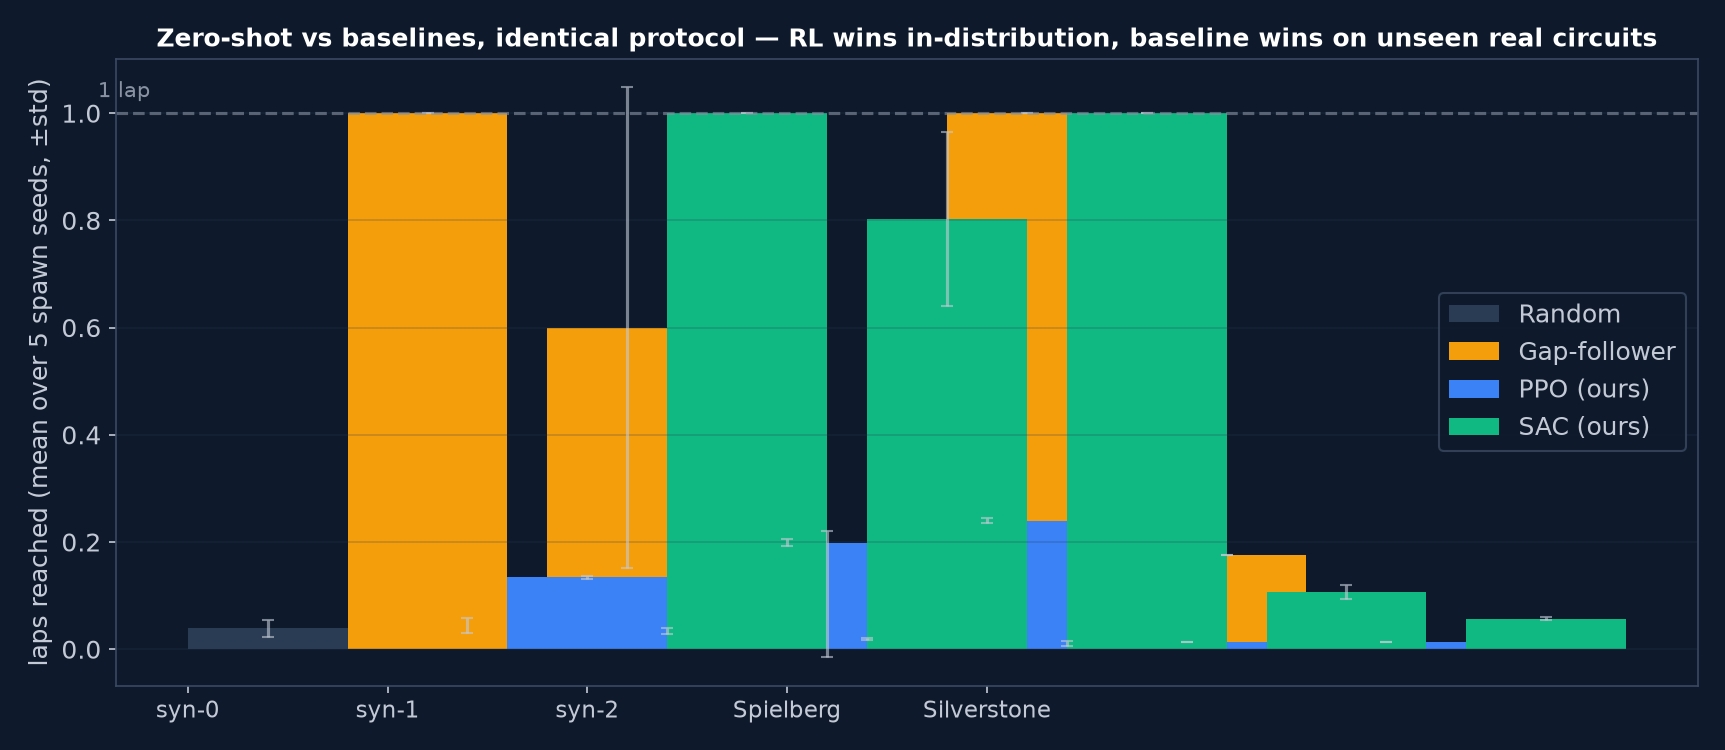
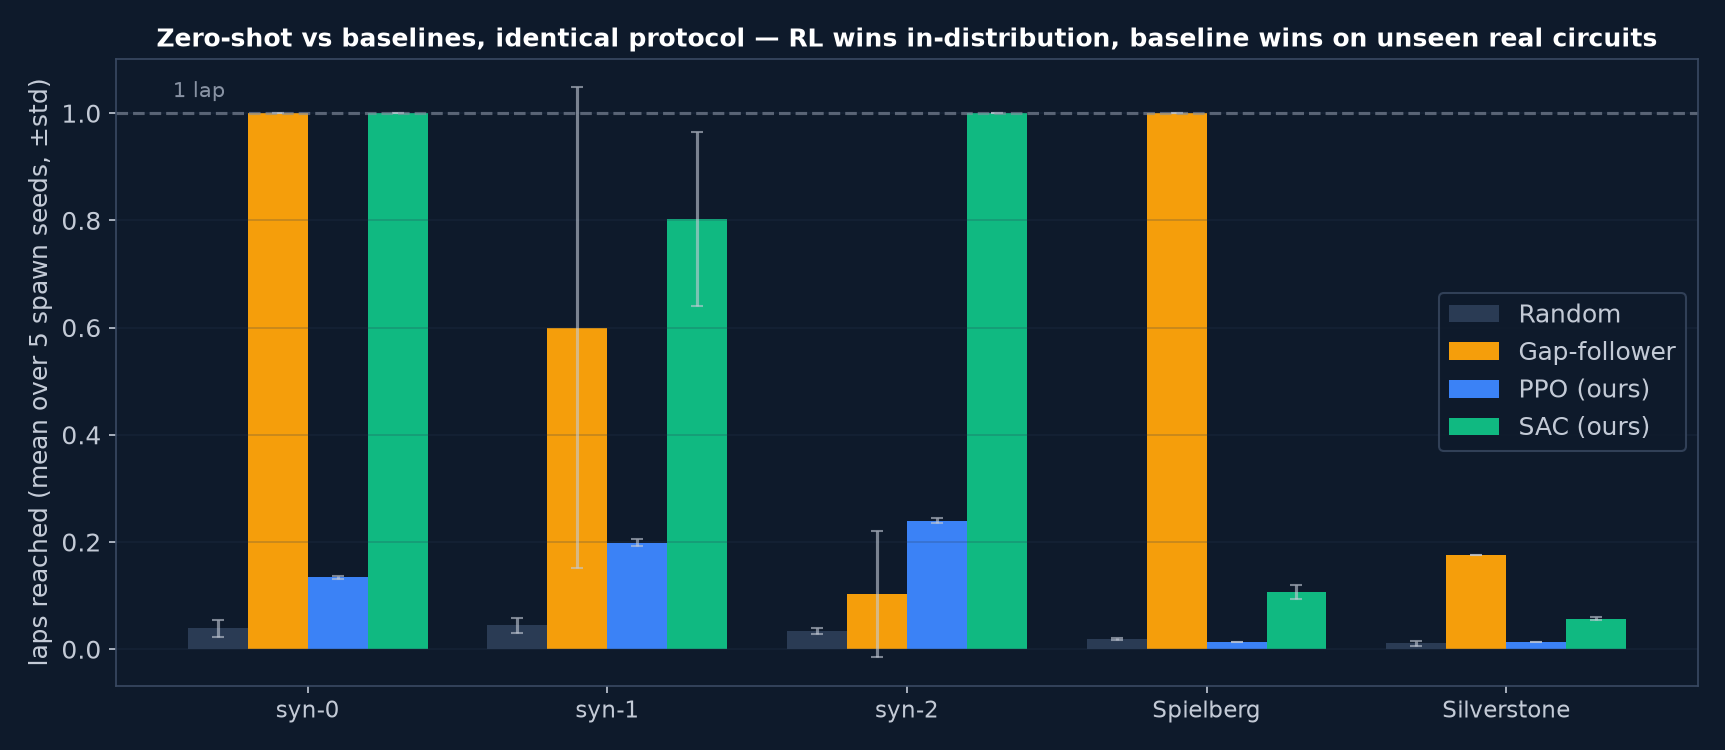
fix zero-shot chart: grouped-bar width/offset bug (bars were overlapping across track slots)

diff --git a/feasibility_spike/reward_experiment/gen_gap_figure.py b/feasibility_spike/reward_experiment/gen_gap_figure.py
@@ -40,7 +40,7 @@ tracks = sorted(tracks, key=lambda t: ("real" in t or t in ("Spielberg","Silvers
 tracks = ["synthetic_track_0", "synthetic_track_1", "synthetic_track_2", "Spielberg", "Silverstone"]
 tracks = [t for t in tracks if any(t in data[k] for k in data)]
 
-x = np.arange(len(tracks)); n = len([s for s in SERIES if s[0] in data]); w = 0.8 / max(n, 1)
+x = np.arange(len(tracks)); n = sum(1 for sub,_,_ in SERIES if any(sub in k for k in data)); w = 0.8 / max(n, 1)
 fig, ax = plt.subplots(figsize=(11.5, 5.0))
 off = -(n - 1) / 2
 for sub, label, color in SERIES:
